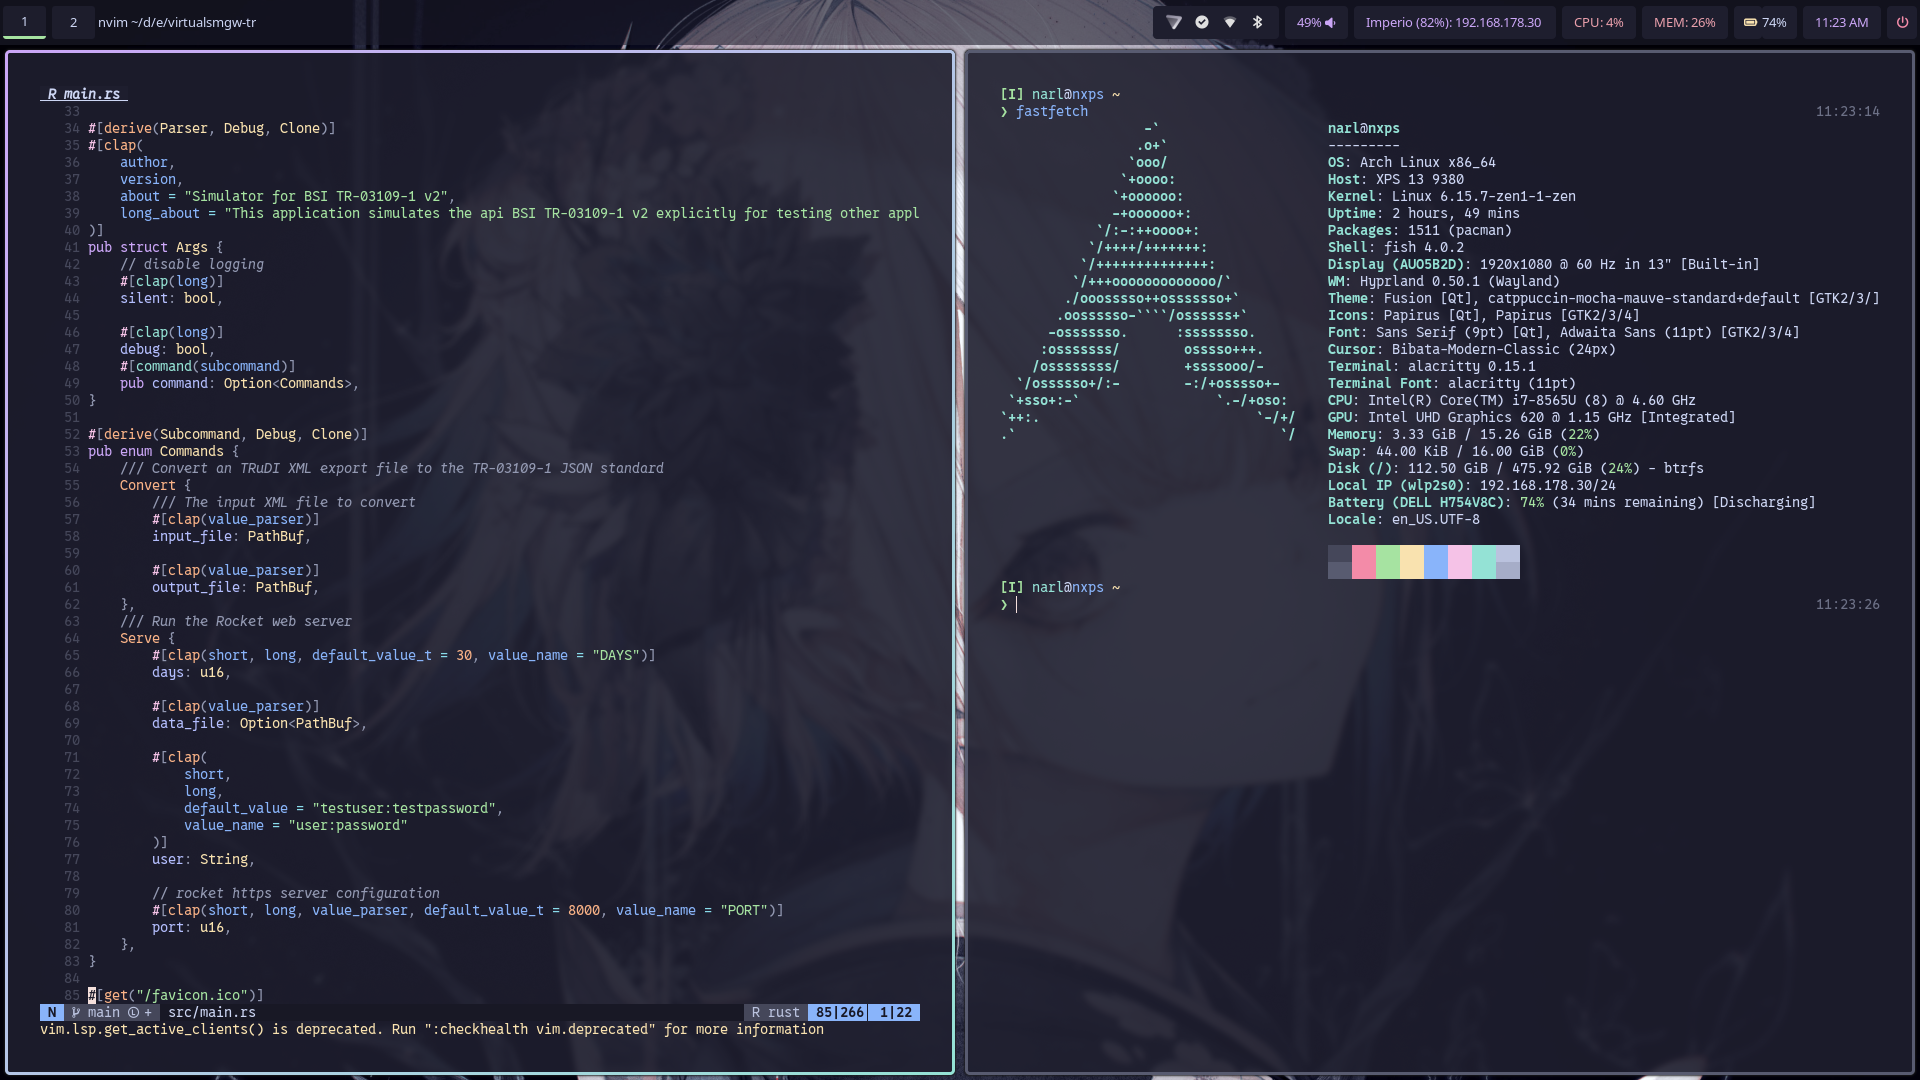
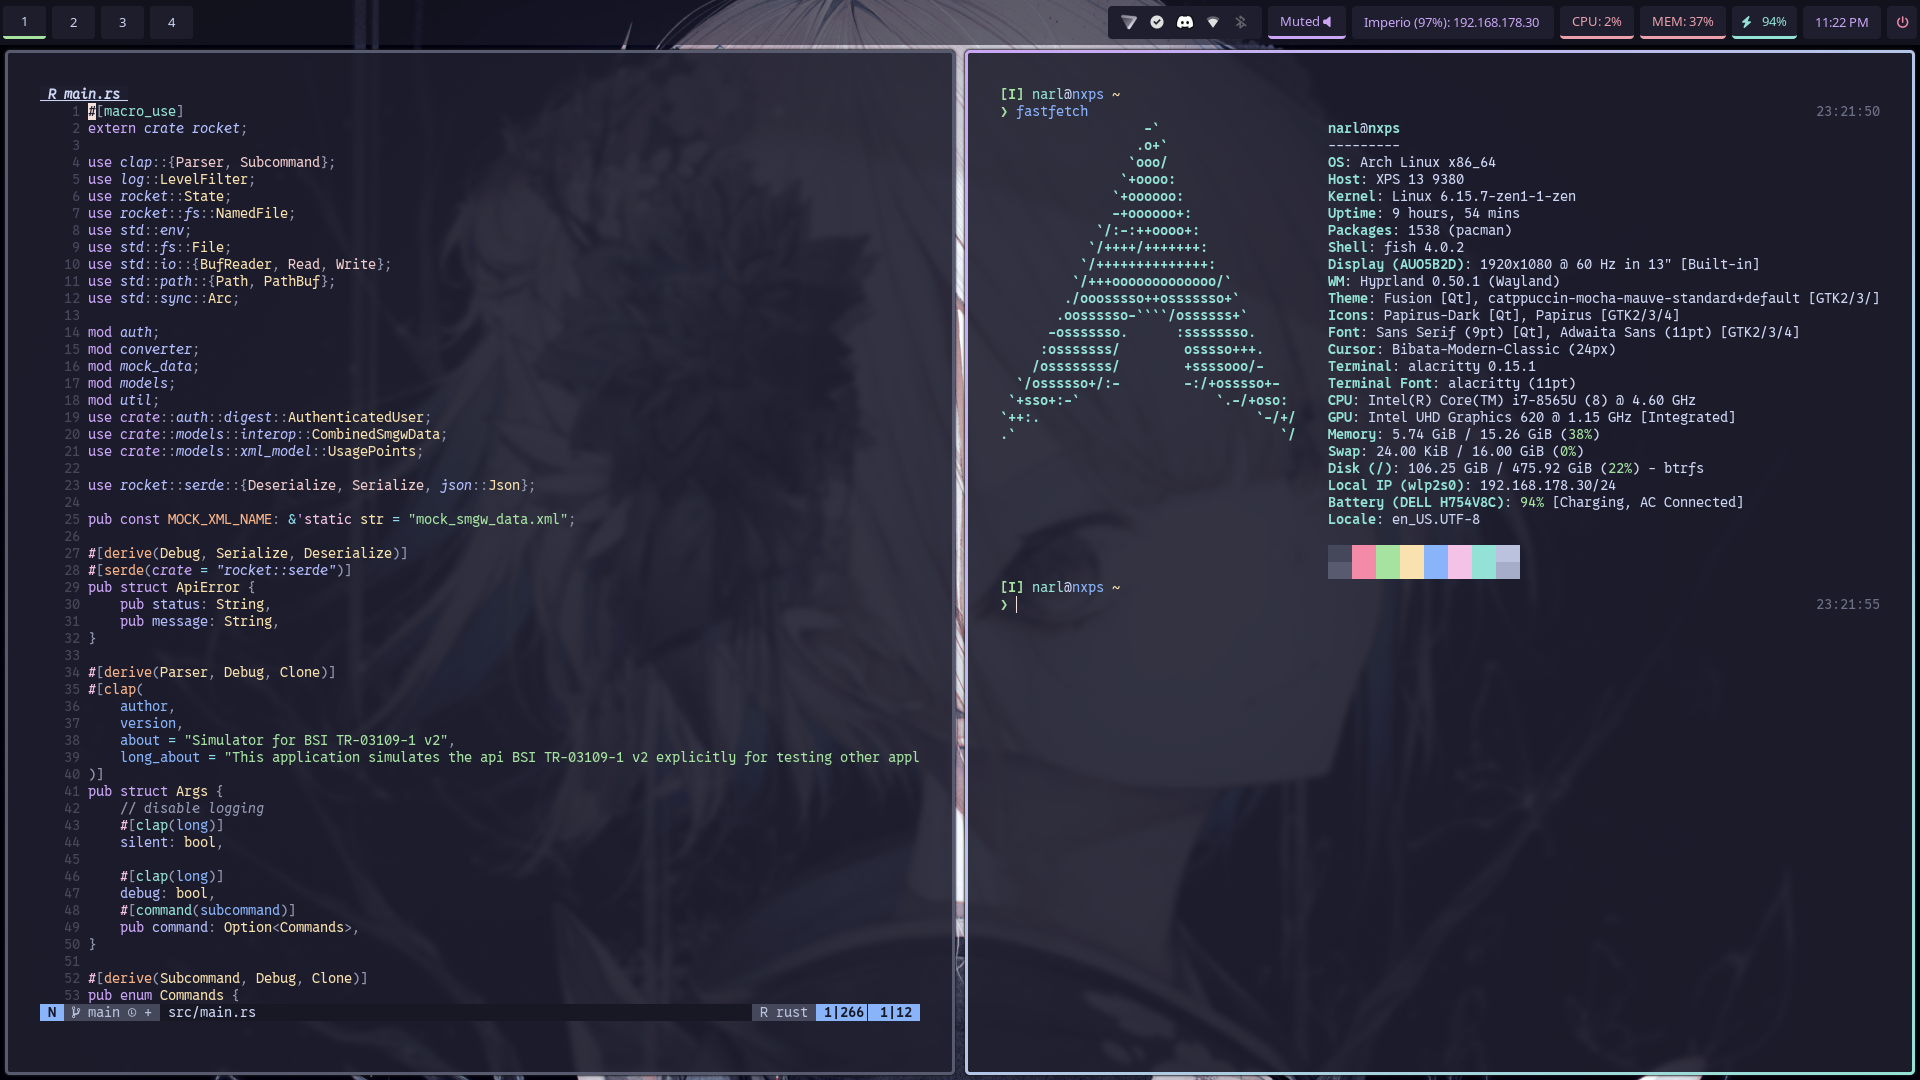
added updated rice pics

diff --git a/README.md b/README.md
@@ -2,3 +2,4 @@
 
 ![image not found](./rice.png)
 ![image not found](./rice-2.png)
+![image not found](./rice-3.png)
